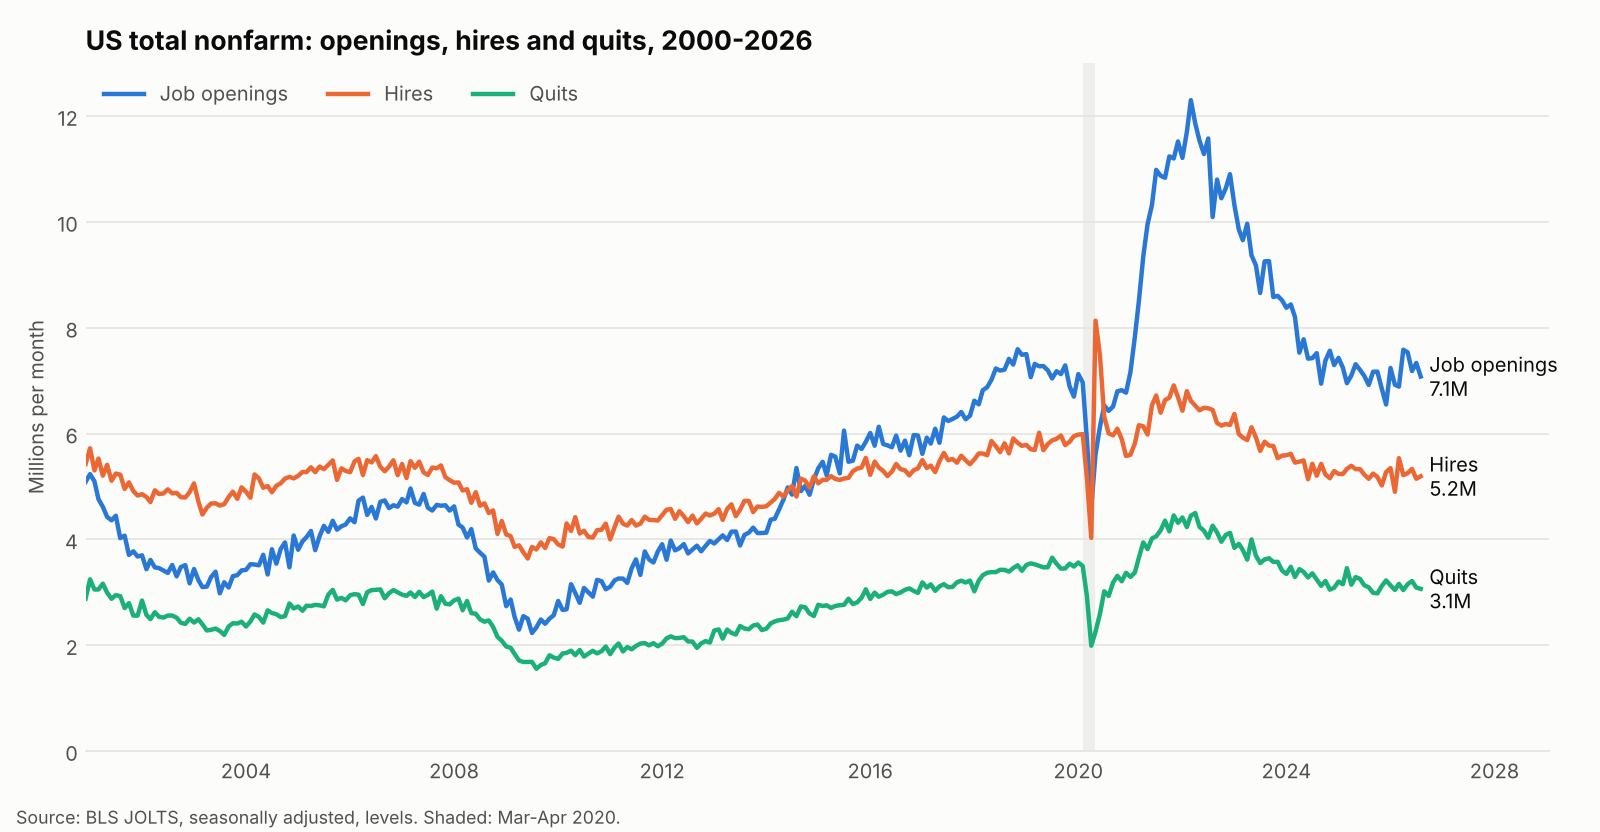
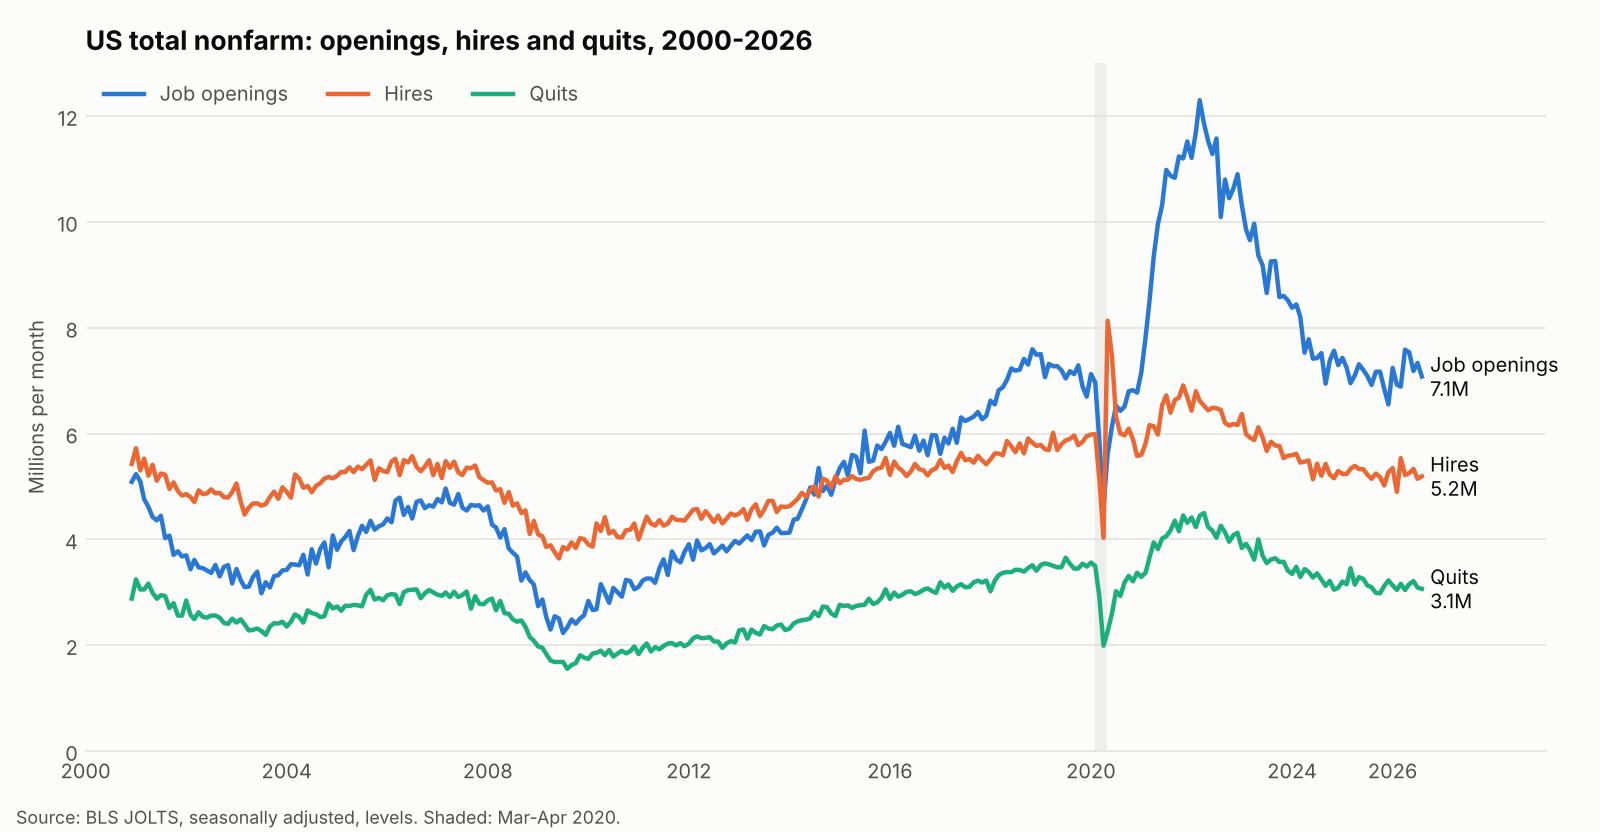
Fix review notes: clarify error band, labels, limits; add .gitignore
Claude-Session: https://claude.ai/code/session_01CrZsaUjJ9AU8qHsivoaRtN

diff --git a/scripts/plot_jolts.py b/scripts/plot_jolts.py
@@ -14,6 +14,7 @@ for c,l,col in spec:
     ax.plot(w.index, w[c], color=col, lw=2, label=l)
     ax.text(w.index[-1]+pd.Timedelta(days=60), w[c].iloc[-1], f"{l}\n{w[c].iloc[-1]:.1f}M", color=INK, fontsize=9, va="center")
 ax.set_ylim(0, 13); ax.set_xlim(w.index[0], w.index[-1]+pd.Timedelta(days=900))
+ax.set_xticks([pd.Timestamp(f"{y}-01-01") for y in range(2000, 2027, 4)] + [pd.Timestamp("2026-01-01")]); ax.set_xticklabels([str(y) for y in range(2000, 2027, 4)] + ["2026"])
 ax.grid(axis="y", color=GRID, lw=.8); ax.set_axisbelow(True)
 for s in ["top","right","left"]: ax.spines[s].set_visible(False)
 ax.spines["bottom"].set_color(GRID)

diff --git a/brief.md b/brief.md
@@ -7,7 +7,7 @@ For every job opening, how many hires does the market produce, and where is that
 
 ## The answer
 - **Total nonfarm: stable and low.** 0.73 hires per opening today, versus a 2000–2019 average of 1.17. The forecast for the next 6 months is about 0.72.
-- **Finance and insurance: lower and much less certain.** 0.31 today, versus a 2000–2019 average of 0.67. The forecast is about 0.37, with a wide range (0.26 to 0.48).
+- **Finance and insurance: lower and much less certain.** 0.31 today, versus a 2000–2019 average of 0.67. The forecast is about 0.37, with a typical error band of 0.26 to 0.48 (the forecast plus or minus its average backtest error, not a statistical confidence interval).
 
 ## What it means for a hiring plan
 A hypothetical company needs 100 hires a month. The open roles it must carry:
@@ -15,11 +15,11 @@ A hypothetical company needs 100 hires a month. The open roles it must carry:
 | Scenario | Total nonfarm | Finance and insurance |
 |---|---|---|
 | Model forecast | 138 | 269 |
-| Forecast, low end of range | 144 | 378 |
-| Forecast, high end of range | 133 | 209 |
+| Ratio falls by the typical error | 144 | 378 |
+| Ratio rises by the typical error | 133 | 209 |
 | Stress (lowest ratio in 2022–23) | 186 | 469 |
 
-Planning rule: for total nonfarm, plan on about 140 open roles per 100 hires. For finance and insurance, plan to the low end of the range, about 380, and review monthly. At an assumed $10,000 per open role per month, the spread in finance and insurance (209 to 378 roles) is about $1.7 million a month. The $10,000 is an assumption, not data.
+Planning rule: for total nonfarm, plan on about 140 open roles per 100 hires. For finance and insurance, plan for the ratio falling by the typical error, about 380 open roles, and review monthly. For scale only: at a placeholder $10,000 per open role per month (my assumption, not data), the 169-role spread in finance and insurance (209 to 378) would be about $1.7 million a month.
 
 ## How reliable is the forecast?
 I tested every method by hiding the last 36 months and forecasting 6 months ahead each time. Average error, in hires per opening:
@@ -34,7 +34,8 @@ The model barely beats the simple rules. For total nonfarm the forecast is off b
 ## Limits
 - National and industry-level data. It has no employer-level information, and the company above is hypothetical.
 - A low ratio means openings are not turning into hires. It does not prove roles are hard to fill, because some openings are never filled.
+- Openings are an end-of-month count and hires are a monthly flow, so "100 divided by the ratio" is a rough planning rule, not an exact one.
 - Finance and insurance monthly figures are noisy (for example, Dec 2025 shows 129k openings against roughly 300k in neighboring months).
-- The same test window was used to compare two model variants, so small gaps between methods should not be over-read.
+- The same test window was used to compare two model variants, so small gaps between methods should not be over-read. The 36 test months also overlap, so they are not independent tests.
 
 *All numbers come from the code in this repo. This brief was written from those outputs.*

diff --git a/README.md b/README.md
@@ -7,7 +7,7 @@ Forecasts **hires per opening** (hires / job openings) 6 months ahead for total 
 ![Openings, hires, quits](results/jolts_total_nonfarm.png)
 
 ## Result in one paragraph
-A standard time-series model barely beats "same as now" for total nonfarm (error 0.030 vs 0.032) and ties a 12-month average for finance and insurance (0.107 vs 0.107). The useful output is the range: for 100 hires a month, a finance and insurance team needs between about 209 and 378 open roles depending on where the ratio lands.
+A standard time-series model barely beats "same as now" for total nonfarm (error 0.030 vs 0.032) and ties a 12-month average for finance and insurance (0.107 vs 0.107). The useful output is the range: for 100 hires a month, a finance and insurance team needs between about 209 and 378 open roles depending on where the ratio lands (a typical error band, not a confidence interval).
 
 ## Data
 - Source: BLS JOLTS flat files, https://download.bls.gov/pub/time.series/jt/
@@ -36,6 +36,8 @@ A standard time-series model barely beats "same as now" for total nonfarm (error
 
 ## Assumptions and limits
 - The company is hypothetical. The $10,000 cost per open role per month in `scenario_costing.csv` is an assumption, not data.
+- Openings are an end-of-month count and hires are a monthly flow, so "100 / ratio" is a rough planning rule, not an exact one.
+- The 36 backtest months overlap, so they are not independent tests.
 - A low ratio means openings aren't turning into hires; it does not prove roles are hard to fill.
 - The same test window compared two model variants, so small gaps are not strong evidence.
 - Finance and insurance monthly data is noisy (e.g. Dec 2025 openings of 129k vs roughly 300k nearby).
